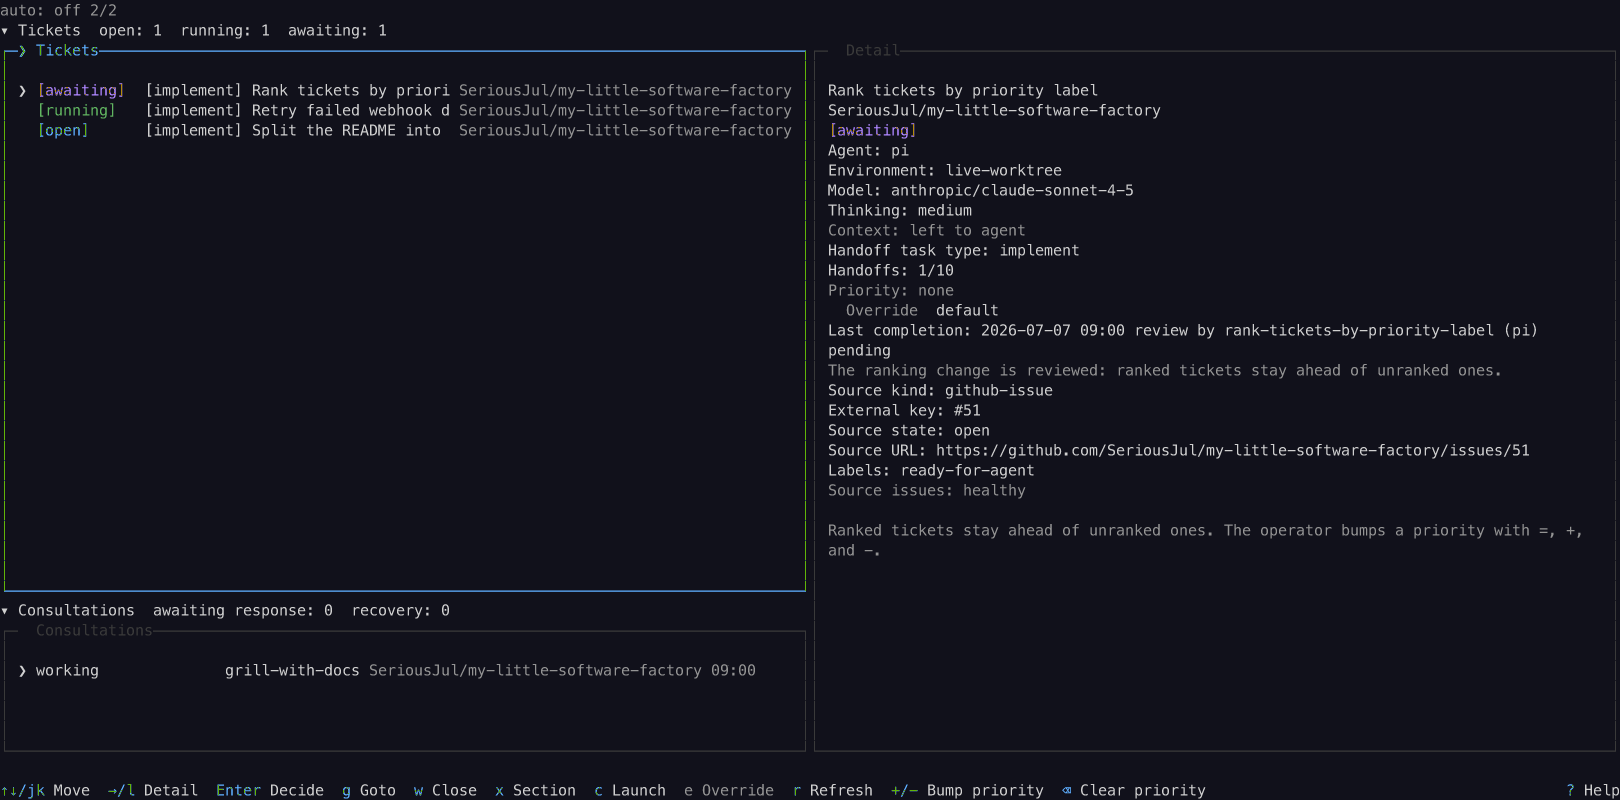
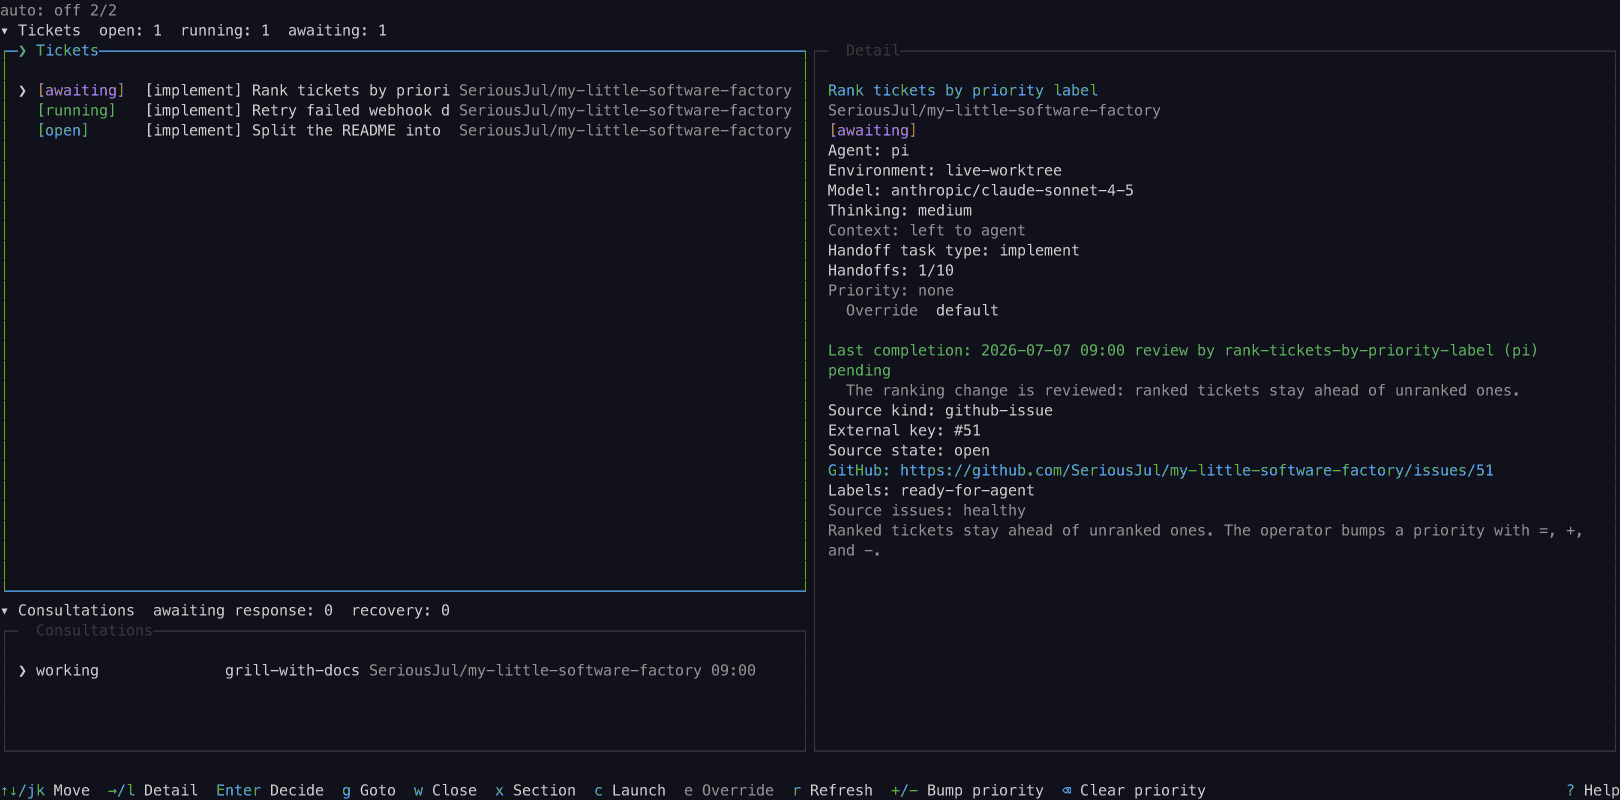
The ticket detail wears its groups apart: accent title, blue GitHub link, one blank after the override group, and the turn's log indented under its green label.

Changed region(s): [[0.4938, 0.4062, 0.9568, 0.6562], [0.5247, 0.0938, 0.7099, 0.1562]]

diff --git a/src/components/ticket-detail.ts b/src/components/ticket-detail.ts
@@ -136,8 +136,10 @@ export function detailContent(
 		for (const line of wrapToWidth(text, usableCols))
 			lines.push({ text: line, fg, ...(bold ? { bold: true } : {}) });
 	};
-	pushWrapped(ticket.title, paint("text"), true);
-	pushWrapped(ticket.repository, paint("text"));
+	// The title wears the accent role and the bold: the ticket's identity
+	// stands out of the flat fact rows, and the repository dims beneath it.
+	pushWrapped(ticket.title, paint("accent"), true);
+	pushWrapped(ticket.repository, paint("subtext0"));
 	// The Starting window (ADR 0030) takes the state line's slot in place of
 	// the badge, the same face the list row wears, so the list and the detail
 	// never disagree. The `[handed-off]` badge is never drawn: where the
@@ -189,6 +191,14 @@ export function detailContent(
 	// `Priority: critical (issue #123)`, the fixing alert by `alert #9`, the
 	// fixing advisory by its key alone (ADR 0023, ADR 0042).
 	lines.push({ text: `Priority: ${fact.text}`, fg: fact.fg });
+	// One blank closes the pane's interactive group - the Priority fact and
+	// the override's choice row, which the scroll box inserts right after
+	// the fact - and opens the read-only groups: the warnings, the turn's
+	// log, and the source facts. The detail's row budget at the sample
+	// terminal is spent here: the groups below must fit the rows the detail
+	// shows without a scroll, so they set themselves apart by their roles,
+	// not by more gaps.
+	lines.push({ text: " ", fg: paint("subtext0") });
 	// A leftover environment is what a closed cycle still has running in
 	// herdr. The detail names it, says when the control plane learned of it,
 	// and says where its cleanup lives - in herdr, not in the control plane
@@ -230,19 +240,28 @@ export function detailContent(
 		// decision is `pending` until one is made on the turn.
 		const date = completion.completedAt.slice(0, 16).replace("T", " ");
 		const decision = completion.decision ?? "pending";
+		// The green label opens the turn's log: the report the agent left
+		// behind, kept apart from the static facts by its color and its
+		// indented, dimmed message, not by a row the budget does not have.
 		pushWrapped(
 			`Last completion: ${date} ${completion.taskType} by ${completion.agentName} (${completion.agentType}) ${decision}`,
-			paint("text"),
+			paint("green"),
 		);
+		// The message indents under its label: wrap first, then prefix, because
+		// the wrap drops leading spaces. It drops the indent where the columns
+		// cannot hold it.
+		const indent = usableCols >= 8 ? "  " : "";
 		for (const line of completion.message.split("\n")) {
-			for (const wrapped of wrapToWidth(line, usableCols))
-				lines.push({ text: wrapped, fg: paint("subtext0") });
+			for (const wrapped of wrapToWidth(line, Math.max(1, usableCols - indent.length)))
+				lines.push({ text: indent + wrapped, fg: paint("subtext0") });
 		}
 	}
 	pushWrapped(`Source kind: ${ticket.sourceKind}`, paint("text"));
 	pushWrapped(`External key: ${ticket.externalKey}`, paint("text"));
 	pushWrapped(`Source state: ${ticket.sourceState}`, paint("text"));
-	pushWrapped(`Source URL: ${ticket.url}`, paint("text"));
+	// The link to the ticket's GitHub page wears the blue role: the one row
+	// the operator opens in a browser, kept out of the flat fact rows.
+	pushWrapped(`GitHub: ${ticket.url}`, paint("blue"));
 	pushWrapped(`Labels: ${ticket.labels.join(", ") || "none"}`, paint("text"));
 	for (const membership of ticket.memberships) {
 		pushWrapped(
@@ -251,7 +270,9 @@ export function detailContent(
 		);
 	}
 	if (ticket.handoffRecoveryRequired) pushWrapped("Handoff: recovery required", paint("yellow"));
-	lines.push({ text: " ", fg: paint("subtext0") });
+	// The description carries no gap of its own: the read-only groups are
+	// already closed above by the single blank, and the dim that the
+	// description wears sets it apart from the source facts in its place.
 	pushWrapped(ticket.description, paint("subtext0"));
 	const truncated = lines.map((line) => ({
 		text: truncateToWidth(line.text, usableCols),

diff --git a/test/ticket-detail.test.ts b/test/ticket-detail.test.ts
@@ -208,6 +208,71 @@ describe("Ticket detail priority fact (ADR 0022)", () => {
 	});
 });
 
+describe("Ticket detail grouped layout", () => {
+	const first = SAMPLE_TICKETS[0];
+	if (first === undefined) throw new Error("missing sample ticket");
+	// A ticket with a settled turn: its completion stands as the log group.
+	const withLog = SAMPLE_TICKETS[3];
+	if (withLog === undefined) throw new Error("missing sample ticket");
+
+	test("the title wears the accent role and the bold, and the repository dims", () => {
+		const lines = detailLines(first, 100, 10);
+		expect(lines).toContainEqual({
+			text: "Retry policy for webhooks",
+			fg: roleColor("accent"),
+			bold: true,
+		});
+		expect(lines).toContainEqual({ text: "acme/billing", fg: roleColor("subtext0") });
+	});
+
+	test("the link to the ticket's GitHub page wears the blue role", () => {
+		const lines = detailLines(first, 100, 10);
+		expect(lines).toContainEqual({
+			text: "GitHub: https://github.com/acme/billing/issues/1",
+			fg: roleColor("blue"),
+		});
+	});
+
+	test("one blank closes the interactive group and opens the read-only groups", () => {
+		const lines = detailLines(withLog, 100, 10);
+		const texts = lines.map((line) => line.text);
+		const at = (text: string) => {
+			const i = texts.indexOf(text);
+			if (i === -1) throw new Error(`missing detail line: ${text}`);
+			return i;
+		};
+		// The blank stands on the Priority fact's right, where the override
+		// row renders, and no other row in the pane takes a blank.
+		expect(texts[at("Priority: none") + 1]).toBe(" ");
+		expect(texts.filter((t) => t === " ").length).toBe(1);
+		// The description follows the source facts on its dim alone.
+		expect(texts[at("Labels: none") + 1]).not.toBe(" ");
+	});
+
+	test("the turn's log stands apart in its green label and indented dim", () => {
+		const lines = detailLines(withLog, 100, 10);
+		const texts = lines.map((line) => line.text);
+		const at = (text: string) => {
+			const i = texts.indexOf(text);
+			if (i === -1) throw new Error(`missing detail line: ${text}`);
+			return i;
+		};
+		// The green label opens the log.
+		expect(
+			lines[at("Last completion: 2026-01-01 12:00 review by factory-review-I_4 (claude) pending")]
+				.fg,
+		).toBe(roleColor("green"));
+		// The message indents under its label, dim, on every wrapped line.
+		expect(texts[at("  The auth shim and its flag are removed.")]).toBe(
+			"  The auth shim and its flag are removed.",
+		);
+		expect(lines[at("  The auth shim and its flag are removed.")].fg).toBe(roleColor("subtext0"));
+		expect(texts[at("  All 142 tests pass. I left the migration note in docs/auth.md.")]).toBe(
+			"  All 142 tests pass. I left the migration note in docs/auth.md.",
+		);
+	});
+});
+
 describe("Ticket detail wheel acceleration", () => {
 	test("starts precisely, accelerates during a burst, and caps speed", () => {
 		const burst = newWheelBurst();

diff --git a/test/ticket-scroll-frame.test.ts b/test/ticket-scroll-frame.test.ts
@@ -641,7 +641,9 @@ describe("native Ticket detail viewport", () => {
 					// The source field is below this small viewport at the preserved
 					// offset. Grow the terminal only to observe that refresh, then
 					// return to the original viewport to verify the native offset.
-					setup.resize(SCROLL_WIDTH, 20);
+					// The blank that closes the interactive group stands above the
+					// source field, so the field needs one more row than before.
+					setup.resize(SCROLL_WIDTH, 21);
 					await awaitFrame(
 						setup,
 						(frame) => frame.includes("External key: #11-refresh"),

diff --git a/test/source-frame.test.ts b/test/source-frame.test.ts
@@ -324,7 +324,8 @@ describe("source-driven frames", () => {
 					// No task rule matches an issue, so the open ticket's task
 					// type line carries the configured default.
 					expect(detail).toContain("Suggested task type: implement");
-					expect(detail).toContain("Source URL: https://github.com/acme/factory/issues/5");
+					// The link to the ticket's GitHub page, in the blue role.
+					expect(detail).toContain("GitHub: https://github.com/acme/factory/issues/5");
 					expect(detail).toContain("Labels: ready-for-agent");
 				},
 				WIDTH,

diff --git a/docs/operation/main-view.md b/docs/operation/main-view.md
@@ -150,8 +150,8 @@ that badge wears a warning color; every configured task type uses one
 neutral style. The detail pane on the right shows the full detail of the
 selected ticket: repository, ticket state, the Agent its handoff runs on with
 its Environment and that handoff's Model, Thinking level, and context window,
-source name, source kind, external key, source state, URL, labels, and source
-health. An open ticket shows the settings its suggested task type's Task
+source name, source kind, external key, source state, the GitHub link, labels,
+and source health. An open ticket shows the settings its suggested task type's Task
 profile resolves to, which is what Enter starts, including the Environment it
 starts in; a ticket inside a work cycle shows the settings its own handoff
 started with. A close returns a ticket to open and keeps that handoff's record
